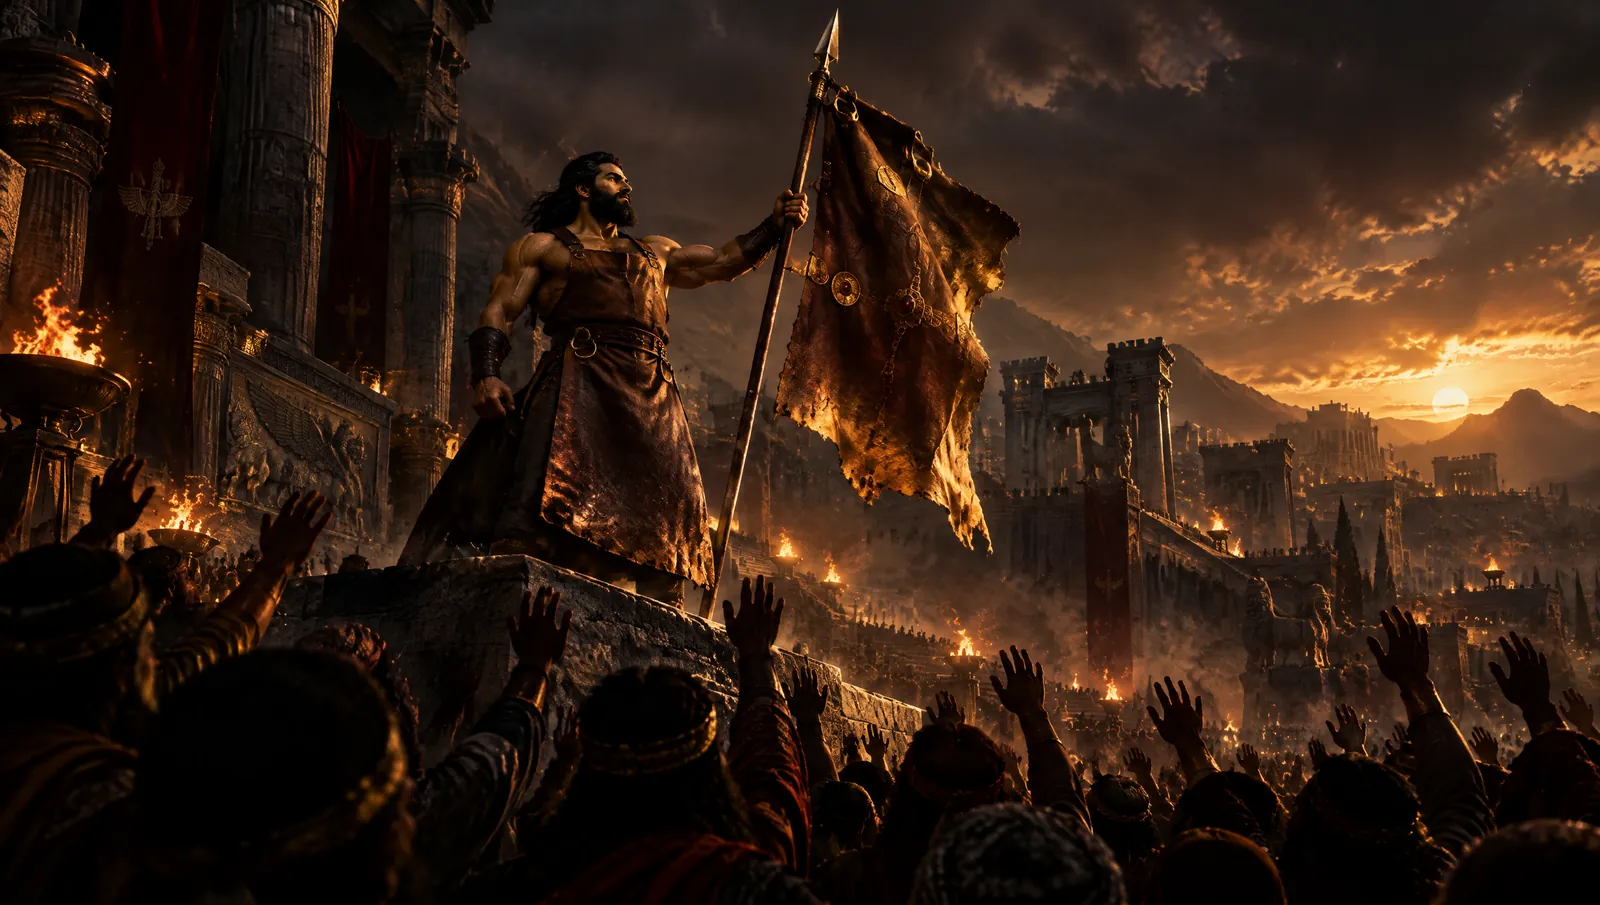
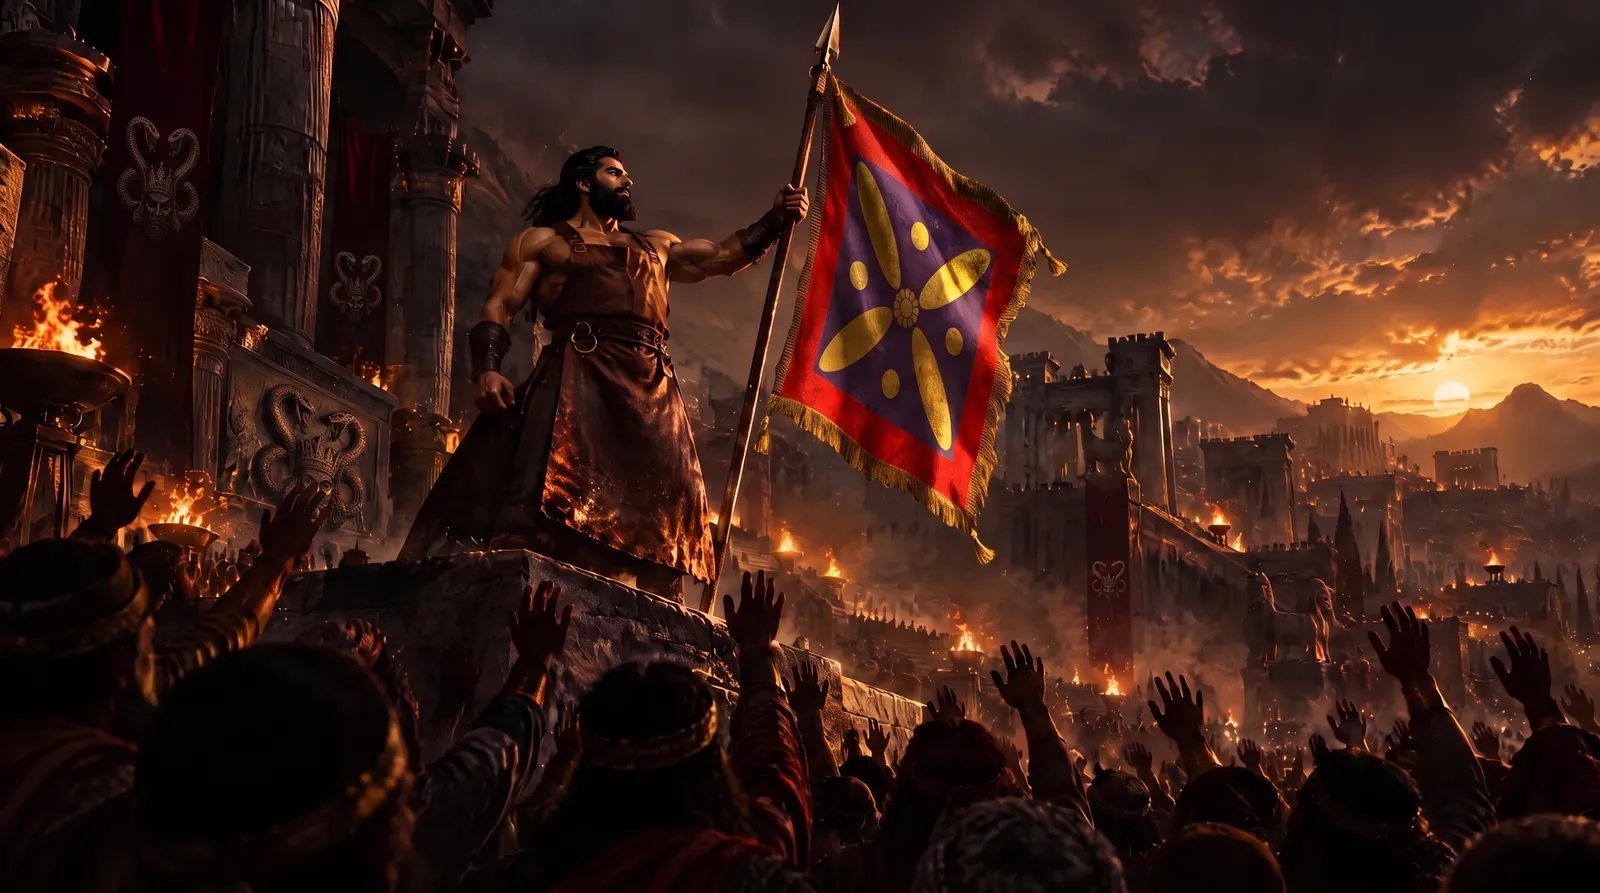
Public build

diff --git a/fa/index.html b/fa/index.html
@@ -44,13 +44,13 @@ FINISH: worked by build/phone-test.html in both languages and looked at in pictu
 <nav class="modes" id="modes" aria-label="صفحه یا گفتوگو"><div class="wrap"><div class="modes-sw"><a class="mode mode-r" id="mode-record" href="#record"><svg width="18" height="18" viewBox="0 0 24 24" fill="none" stroke="currentColor" stroke-width="2.2" stroke-linecap="round" stroke-linejoin="round" aria-hidden="true"><path d="M6 3h9l4 4v14H6z"/><path d="M10 12h6"/><path d="M10 16h6"/></svg><span>نمای کلی</span></a><a class="mode mode-d" id="mode-discussion" href="#discussion"><svg width="18" height="18" viewBox="0 0 24 24" fill="none" stroke="currentColor" stroke-width="2.2" stroke-linecap="round" stroke-linejoin="round" aria-hidden="true"><path d="M21 12a8 8 0 0 1-11.6 7.1L4 20l1-4.6A8 8 0 1 1 21 12z"/></svg><span>گفتوگو</span><b class="mode-n num" id="disc-n" hidden></b></a></div><button class="mode-share" id="share" type="button" data-url="https://iranuncensored.com/fa/" data-title="ایران بدون سانسور: جایی که ایرانیهای مخالف جمهوری اسلامی همدیگه رو پیدا میکنن" aria-label="اشتراکگذاری این صفحه"><svg width="18" height="18" viewBox="0 0 24 24" fill="none" stroke="currentColor" stroke-width="2.2" stroke-linecap="round" stroke-linejoin="round" aria-hidden="true"><path d="M12 15V3"/><path d="m7 8 5-5 5 5"/><path d="M5 13v6a2 2 0 0 0 2 2h10a2 2 0 0 0 2-2v-6"/></svg><span>اشتراکگذاری</span></button></div></nav>
 <main id="main">
 <div class="pane" id="record">
-<section class="hero hero-iu"><picture class="aip aip-bg"><source media="(min-width:700px)" srcset="../assets/ai/kaveh-banner.webp" width="1600" height="905"><img src="../assets/ai/kaveh-banner-800.webp" alt="کاوهٔ آهنگر روی یه سکوی سنگی وایساده و پیشبند چرمیش رو سر نیزه مثل درفش بالا برده. پایینش جمعیت دستهاشون رو به طرفش دراز کردن." width="800" height="452" decoding="async" fetchpriority="high"></picture><div class="wrap"><div class="hero-say">
-<h1>ایران آزاد میشه. <i>تنهایی منتظر اون روز نمونید.</i></h1>
-<p class="lede">ایرانیهایی که میخوان جمهوری اسلامی بره اینجا همدیگه رو پیدا میکنن و بیرون از ایران دور هم جمع میشن.</p>
+<section class="hero hero-iu"><picture class="aip aip-bg"><source media="(min-width:700px)" srcset="../assets/ai/kaveh-banner.webp" width="1600" height="905"><img src="../assets/ai/kaveh-banner-800.webp" alt="کاوهٔ آهنگر روی یه سکوی سنگی وایساده و درفش کاویانی رو سر نیزه بالا برده. پشتش کاخ ضحاک با نشان مارهاست و پایینش جمعیت دستهاشون رو به طرفش دراز کردن." width="800" height="452" decoding="async" fetchpriority="high"></picture><div class="wrap"><div class="hero-say">
+<h1>ضحاک هم افتاد. <i>اینا هم میافتن.</i></h1>
+<p class="lede">یه آهنگر پیشبندش رو کرد پرچم و مردم پشتش وایسادن. ایرانیهایی که میخوان جمهوری اسلامی بره، اینجا همدیگه رو پیدا میکنن.</p>
 <div class="front-q" id="front-q"><!--front-q--><link rel="stylesheet" href="../assets/members.css">
 <div class="fq" id="front-ask" data-fq="free" data-site="iu"><script>document.documentElement.classList.add("m-js")</script><h2 class="fq-q" id="fq-q">اولین کاری که تو ایران آزاد میکنی چیه؟</h2><div class="fq-a" role="group" aria-labelledby="fq-q"><button type="button" class="fq-b" data-fq-a="home" aria-pressed="false">برمیگردم خونه</button><button type="button" class="fq-b" data-fq-a="hug" aria-pressed="false">خانوادهم رو بغل میکنم</button><button type="button" class="fq-b" data-fq-a="speak" aria-pressed="false">حرفم رو بلند میزنم</button><button type="button" class="fq-b" data-fq-a="dance" aria-pressed="false">تو خیابان میرقصم</button><button type="button" class="fq-b" data-fq-a="vote" aria-pressed="false">رأی میدم</button><button type="button" class="fq-b" data-fq-a="other" aria-pressed="false">یه چیز دیگه</button></div><p class="fq-n" data-fq-n aria-live="polite" hidden></p><a class="btn btn-key fq-go" data-fq-keep href="../fa/privacy/" hidden>حسابتون رو بسازید</a><noscript><p class="fq-ns"><a href="../fa/privacy/">برای ساختن حساب وارد بشید.</a></p></noscript></div><!--/front-q--></div>
 <p class="inside-note"><svg width="24" height="24" viewBox="0 0 24 24" fill="none" stroke="currentColor" stroke-width="2" stroke-linecap="round" stroke-linejoin="round" aria-hidden="true"><path d="M12 3l7 3v5c0 4.5-3 8.3-7 10-4-1.7-7-5.5-7-10V6z"/><path d="M9 12l2 2 4-4"/></svg><span><b>داخل ایران هستید؟</b> فقط بخونید. هیچوقت ازتون نمیخوام جایی جمع بشید، گزارش بدید یا بگید کی هستید. <a href="../fa/safety/#inside">چی برای شما امنه</a></span></p>
-</div><p class="hero-cap">تو شاهنامه، کاوهٔ آهنگر پیشبند چرمیش رو سر نیزه کرد و جلوی ضحاک وایساد. همون پیشبند شد درفش ایران.</p></div></section>
+</div></div></section>
 <div class="board-art"><picture class="aip aip-bg"><source media="(min-width:700px)" srcset="../assets/ai/diaspora-flags.webp" width="1600" height="905"><img src="../assets/ai/diaspora-flags-800.webp" alt="یه جمعیت بزرگ از ایرانیهای خارج از ایران، از پشت سر، موقع غروب با پرچمهای شیر و خورشید جلوی یه ساختمون ستوندار." width="800" height="452" decoding="async" loading="lazy"></picture><link rel="stylesheet" href="../assets/members.css">
 <section class="sec mb-front" id="gatherings" data-mb="front-board" data-site="iu"><div class="wrap"><div class="mb-front-h" data-mb-has><h2>برنامههای عمومی بیرون از ایران</h2><p class="mb-lede">تجمعها، نمایش فیلمها و مراسمهایی بیرون از ایران که از قبل عمومیان. برنامهتون رو بذارید، من اینجا و تو صفحهٔ اول نشونش میدم.</p></div><ul class="mb-list" data-mb-list hidden></ul><p class="mb-go"><a class="btn btn-key" href="../fa/gatherings/new/" data-mb-first data-more="یه برنامهٔ عمومی بذارید">اولی رو شما بذارید</a><a class="btn btn-line" href="../fa/gatherings/" data-mb-all hidden>همهٔ برنامهها رو ببینید</a></p></div></section></div>
 <section class="sec front-acts" id="journey"><div class="wrap" data-q-board>

diff --git a/en/index.html b/en/index.html
@@ -44,13 +44,13 @@ FINISH: worked by build/phone-test.html in both languages and looked at in pictu
 <nav class="modes" id="modes" aria-label="The page, or the discussion"><div class="wrap"><div class="modes-sw"><a class="mode mode-r" id="mode-record" href="#record"><svg width="18" height="18" viewBox="0 0 24 24" fill="none" stroke="currentColor" stroke-width="2.2" stroke-linecap="round" stroke-linejoin="round" aria-hidden="true"><path d="M6 3h9l4 4v14H6z"/><path d="M10 12h6"/><path d="M10 16h6"/></svg><span>Overview</span></a><a class="mode mode-d" id="mode-discussion" href="#discussion"><svg width="18" height="18" viewBox="0 0 24 24" fill="none" stroke="currentColor" stroke-width="2.2" stroke-linecap="round" stroke-linejoin="round" aria-hidden="true"><path d="M21 12a8 8 0 0 1-11.6 7.1L4 20l1-4.6A8 8 0 1 1 21 12z"/></svg><span>Discussion</span><b class="mode-n num" id="disc-n" hidden></b></a></div><button class="mode-share" id="share" type="button" data-url="https://iranuncensored.com/en/" data-title="Iran Uncensored: where Iranians who want the Islamic Republic gone find each other" aria-label="Share this page"><svg width="18" height="18" viewBox="0 0 24 24" fill="none" stroke="currentColor" stroke-width="2.2" stroke-linecap="round" stroke-linejoin="round" aria-hidden="true"><path d="M12 15V3"/><path d="m7 8 5-5 5 5"/><path d="M5 13v6a2 2 0 0 0 2 2h10a2 2 0 0 0 2-2v-6"/></svg><span>Share</span></button></div></nav>
 <main id="main">
 <div class="pane" id="record">
-<section class="hero hero-iu"><picture class="aip aip-bg"><source media="(min-width:700px)" srcset="../assets/ai/kaveh-banner.webp" width="1600" height="905"><img src="../assets/ai/kaveh-banner-800.webp" alt="Kaveh the blacksmith stands on a stone plinth at dusk, raising his leather apron on a spear as a banner while a great crowd below reaches toward it." width="800" height="452" decoding="async" fetchpriority="high"></picture><div class="wrap"><div class="hero-say">
-<h1>Iran will be free. <i>Don't wait for that day alone.</i></h1>
-<p class="lede">Iranians who want the Islamic Republic gone find each other here, and meet outside Iran.</p>
+<section class="hero hero-iu"><picture class="aip aip-bg"><source media="(min-width:700px)" srcset="../assets/ai/kaveh-banner.webp" width="1600" height="905"><img src="../assets/ai/kaveh-banner-800.webp" alt="Kaveh the blacksmith stands on a stone plinth at dusk and raises the Derafsh Kaviani on a spear, with the serpent marks of Zahhak&#x27;s palace behind him and a great crowd reaching up below." width="800" height="452" decoding="async" fetchpriority="high"></picture><div class="wrap"><div class="hero-say">
+<h1>Zahhak fell. <i>So will they.</i></h1>
+<p class="lede">A blacksmith raised his apron as a banner, and the people stood behind him. Iranians who want the Islamic Republic gone find each other here.</p>
 <div class="front-q" id="front-q"><!--front-q--><link rel="stylesheet" href="../assets/members.css">
 <div class="fq" id="front-ask" data-fq="free" data-site="iu"><script>document.documentElement.classList.add("m-js")</script><h2 class="fq-q" id="fq-q">The first thing you&#x27;ll do in a free Iran?</h2><div class="fq-a" role="group" aria-labelledby="fq-q"><button type="button" class="fq-b" data-fq-a="home" aria-pressed="false">Go home</button><button type="button" class="fq-b" data-fq-a="hug" aria-pressed="false">Hug my family</button><button type="button" class="fq-b" data-fq-a="speak" aria-pressed="false">Say what I think out loud</button><button type="button" class="fq-b" data-fq-a="dance" aria-pressed="false">Dance in the street</button><button type="button" class="fq-b" data-fq-a="vote" aria-pressed="false">Vote</button><button type="button" class="fq-b" data-fq-a="other" aria-pressed="false">Something else</button></div><p class="fq-n" data-fq-n aria-live="polite" hidden></p><a class="btn btn-key fq-go" data-fq-keep href="../en/privacy/" hidden>Make your account</a><noscript><p class="fq-ns"><a href="../en/privacy/">Sign in to make your account.</a></p></noscript></div><!--/front-q--></div>
 <p class="inside-note"><svg width="24" height="24" viewBox="0 0 24 24" fill="none" stroke="currentColor" stroke-width="2" stroke-linecap="round" stroke-linejoin="round" aria-hidden="true"><path d="M12 3l7 3v5c0 4.5-3 8.3-7 10-4-1.7-7-5.5-7-10V6z"/><path d="M9 12l2 2 4-4"/></svg><span><b>Inside Iran?</b> Just read. I never ask you to gather, to report or to say who you are. <a href="../en/safety/#inside">What is safe for you</a></span></p>
-</div><p class="hero-cap">In the Shahnameh, Kaveh the blacksmith raised his apron on a spear against the tyrant Zahhak. It became the banner of Iran.</p></div></section>
+</div></div></section>
 <div class="board-art"><picture class="aip aip-bg"><source media="(min-width:700px)" srcset="../assets/ai/diaspora-flags.webp" width="1600" height="905"><img src="../assets/ai/diaspora-flags-800.webp" alt="A large calm crowd seen from behind at sunset holds lion-and-sun Iranian flags in a square before a columned building in a western city." width="800" height="452" decoding="async" loading="lazy"></picture><link rel="stylesheet" href="../assets/members.css">
 <section class="sec mb-front" id="gatherings" data-mb="front-board" data-site="iu"><div class="wrap"><div class="mb-front-h" data-mb-has><h2>Public events outside Iran</h2><p class="mb-lede">Rallies, screenings and vigils outside Iran that are already public. Post yours and I list it here and on the front page.</p></div><ul class="mb-list" data-mb-list hidden></ul><p class="mb-go"><a class="btn btn-key" href="../en/gatherings/new/" data-mb-first data-more="Post a public event">Post the first one</a><a class="btn btn-line" href="../en/gatherings/" data-mb-all hidden>See every event</a></p></div></section></div>
 <section class="sec front-acts" id="journey"><div class="wrap" data-q-board>

diff --git a/fa/act/pahlavi-speaks/index.html b/fa/act/pahlavi-speaks/index.html
@@ -38,7 +38,7 @@
 <nav class="modes" id="modes" aria-label="صفحه یا گفتوگو"><div class="wrap"><div class="modes-sw"><a class="mode mode-r" id="mode-record" href="#record"><svg width="18" height="18" viewBox="0 0 24 24" fill="none" stroke="currentColor" stroke-width="2.2" stroke-linecap="round" stroke-linejoin="round" aria-hidden="true"><path d="M6 3h9l4 4v14H6z"/><path d="M10 12h6"/><path d="M10 16h6"/></svg><span>دست به کار بشید</span></a><a class="mode mode-d" id="mode-discussion" href="#discussion"><svg width="18" height="18" viewBox="0 0 24 24" fill="none" stroke="currentColor" stroke-width="2.2" stroke-linecap="round" stroke-linejoin="round" aria-hidden="true"><path d="M21 12a8 8 0 0 1-11.6 7.1L4 20l1-4.6A8 8 0 1 1 21 12z"/></svg><span>گفتوگو</span><b class="mode-n num" id="disc-n" hidden></b></a></div><button class="mode-share" id="share" type="button" data-url="https://iranuncensored.com/fa/act/pahlavi-speaks/" data-title="پهلوی حرف میزنه: قویترین دقیقهش رو ادیت کنید" aria-label="اشتراکگذاری این صفحه"><svg width="18" height="18" viewBox="0 0 24 24" fill="none" stroke="currentColor" stroke-width="2.2" stroke-linecap="round" stroke-linejoin="round" aria-hidden="true"><path d="M12 15V3"/><path d="m7 8 5-5 5 5"/><path d="M5 13v6a2 2 0 0 0 2 2h10a2 2 0 0 0 2-2v-6"/></svg><span>اشتراکگذاری</span></button></div></nav>
 <main id="main">
 <div class="pane" id="record">
-<section class="field camp art-head"><picture class="aip aip-bg"><source media="(min-width:700px)" srcset="../../../assets/ai/kaveh-banner.webp" width="1600" height="905"><img src="../../../assets/ai/kaveh-banner-800.webp" alt="کاوهٔ آهنگر روی یه سکوی سنگی وایساده و پیشبند چرمیش رو سر نیزه مثل درفش بالا برده. پایینش جمعیت دستهاشون رو به طرفش دراز کردن." width="800" height="452" decoding="async" fetchpriority="high"></picture><div class="wrap">
+<section class="field camp art-head"><picture class="aip aip-bg"><source media="(min-width:700px)" srcset="../../../assets/ai/kaveh-banner.webp" width="1600" height="905"><img src="../../../assets/ai/kaveh-banner-800.webp" alt="کاوهٔ آهنگر روی یه سکوی سنگی وایساده و درفش کاویانی رو سر نیزه بالا برده. پشتش کاخ ضحاک با نشان مارهاست و پایینش جمعیت دستهاشون رو به طرفش دراز کردن." width="800" height="452" decoding="async" fetchpriority="high"></picture><div class="wrap">
 <h1>پهلوی حرف میزنه</h1>
 <p class="lede">بیشتر آمریکاییها حتی یک دقیقهٔ کامل هم حرفهای شاهزاده رضا پهلوی رو نشنیدن. قویترین یک دقیقهش رو به یه ویدیوی کوتاه عمودی تبدیل کنید تا من بذارمش جلوی چشمشون.</p>
 <p class="sub"><bdi dir="ltr">#PahlaviSpeaks</bdi></p>

diff --git a/en/act/pahlavi-speaks/index.html b/en/act/pahlavi-speaks/index.html
@@ -38,7 +38,7 @@
 <nav class="modes" id="modes" aria-label="The page, or the discussion"><div class="wrap"><div class="modes-sw"><a class="mode mode-r" id="mode-record" href="#record"><svg width="18" height="18" viewBox="0 0 24 24" fill="none" stroke="currentColor" stroke-width="2.2" stroke-linecap="round" stroke-linejoin="round" aria-hidden="true"><path d="M6 3h9l4 4v14H6z"/><path d="M10 12h6"/><path d="M10 16h6"/></svg><span>Take action</span></a><a class="mode mode-d" id="mode-discussion" href="#discussion"><svg width="18" height="18" viewBox="0 0 24 24" fill="none" stroke="currentColor" stroke-width="2.2" stroke-linecap="round" stroke-linejoin="round" aria-hidden="true"><path d="M21 12a8 8 0 0 1-11.6 7.1L4 20l1-4.6A8 8 0 1 1 21 12z"/></svg><span>Discussion</span><b class="mode-n num" id="disc-n" hidden></b></a></div><button class="mode-share" id="share" type="button" data-url="https://iranuncensored.com/en/act/pahlavi-speaks/" data-title="Pahlavi Speaks: cut his strongest minute" aria-label="Share this page"><svg width="18" height="18" viewBox="0 0 24 24" fill="none" stroke="currentColor" stroke-width="2.2" stroke-linecap="round" stroke-linejoin="round" aria-hidden="true"><path d="M12 15V3"/><path d="m7 8 5-5 5 5"/><path d="M5 13v6a2 2 0 0 0 2 2h10a2 2 0 0 0 2-2v-6"/></svg><span>Share</span></button></div></nav>
 <main id="main">
 <div class="pane" id="record">
-<section class="field camp art-head"><picture class="aip aip-bg"><source media="(min-width:700px)" srcset="../../../assets/ai/kaveh-banner.webp" width="1600" height="905"><img src="../../../assets/ai/kaveh-banner-800.webp" alt="Kaveh the blacksmith stands on a stone plinth at dusk, raising his leather apron on a spear as a banner while a great crowd below reaches toward it." width="800" height="452" decoding="async" fetchpriority="high"></picture><div class="wrap">
+<section class="field camp art-head"><picture class="aip aip-bg"><source media="(min-width:700px)" srcset="../../../assets/ai/kaveh-banner.webp" width="1600" height="905"><img src="../../../assets/ai/kaveh-banner-800.webp" alt="Kaveh the blacksmith stands on a stone plinth at dusk and raises the Derafsh Kaviani on a spear, with the serpent marks of Zahhak&#x27;s palace behind him and a great crowd reaching up below." width="800" height="452" decoding="async" fetchpriority="high"></picture><div class="wrap">
 <h1>Pahlavi Speaks</h1>
 <p class="lede">Most Americans have never heard Prince Reza Pahlavi speak for one full minute. Cut his strongest minute into a short vertical video, and I&#x27;ll put it in front of them.</p>
 <p class="sub"><bdi dir="ltr">#PahlaviSpeaks</bdi></p>

diff --git a/assets/site.css b/assets/site.css
@@ -82,7 +82,8 @@ html[lang="fa"] .mark{font-family:"Lalezar","Vazirmatn",Tahoma,sans-serif;font-w
 .top nav a.lang{border:1px solid var(--line);font-family:"Vazirmatn","Public Sans",sans-serif}
 .top nav a.join{background:var(--field);color:var(--on-field)}
 .top nav a.join:hover{background:var(--field-hi)}
-@media(min-width:820px){.top nav a{display:inline-flex;align-items:center;min-height:44px}}
+/* 14 Oct 2026: the menu grew (Public events), and from 820 to about 1230px it overlapped the mark and pushed Sign in off the screen; the strip below the bar serves those widths now. */
+@media(min-width:1240px){.top nav a{display:inline-flex;align-items:center;min-height:44px}}
 .subnav{display:flex;gap:4px;overflow-x:auto;background:var(--sunk);padding:0 8px;scrollbar-width:none}
 .subnav a{flex:none;display:inline-flex;align-items:center;padding:0 10px;min-height:44px;text-decoration:none;font-weight:600;font-size:var(--fs-4);color:var(--dim)}
 .subnav a[aria-current="page"]{color:var(--field)}
@@ -90,7 +91,7 @@ html[lang="fa"] .mark{font-family:"Lalezar","Vazirmatn",Tahoma,sans-serif;font-w
 .subnav{-webkit-mask-image:linear-gradient(to left,transparent,#000 36px);mask-image:linear-gradient(to left,transparent,#000 36px)}
 html[dir="rtl"] .subnav{-webkit-mask-image:linear-gradient(to right,transparent,#000 36px);mask-image:linear-gradient(to right,transparent,#000 36px)}
 .subnav a:last-child{margin-inline-end:28px}
-@media(min-width:820px){.subnav{display:none}}
+@media(min-width:1240px){.subnav{display:none}}
 
 /* The head of a page. It was a block of solid gold until 5 October 2026, when Armin called it ugly
    ("this orange for Iran Uncensored looks ugly ... just fix it"). Now it is black like the rest of the
@@ -1022,7 +1023,7 @@ a{text-underline-offset:.2em}
 .subnav{background:var(--bg);border-bottom:1px solid var(--line);gap:0}
 .subnav a{padding:0 12px;font-size:var(--fs-4)}
 .subnav a[aria-current="page"]{color:var(--ink);box-shadow:inset 0 -2px 0 var(--field)}
-@media(min-width:820px){.top nav a[aria-current="page"]{color:var(--ink);box-shadow:inset 0 -2px 0 var(--field);border-radius:0}}
+@media(min-width:1240px){.top nav a[aria-current="page"]{color:var(--ink);box-shadow:inset 0 -2px 0 var(--field);border-radius:0}}
 .modes{background:var(--bg)}
 .field{background:var(--bg)}
 .field.band{background:var(--panel)}
